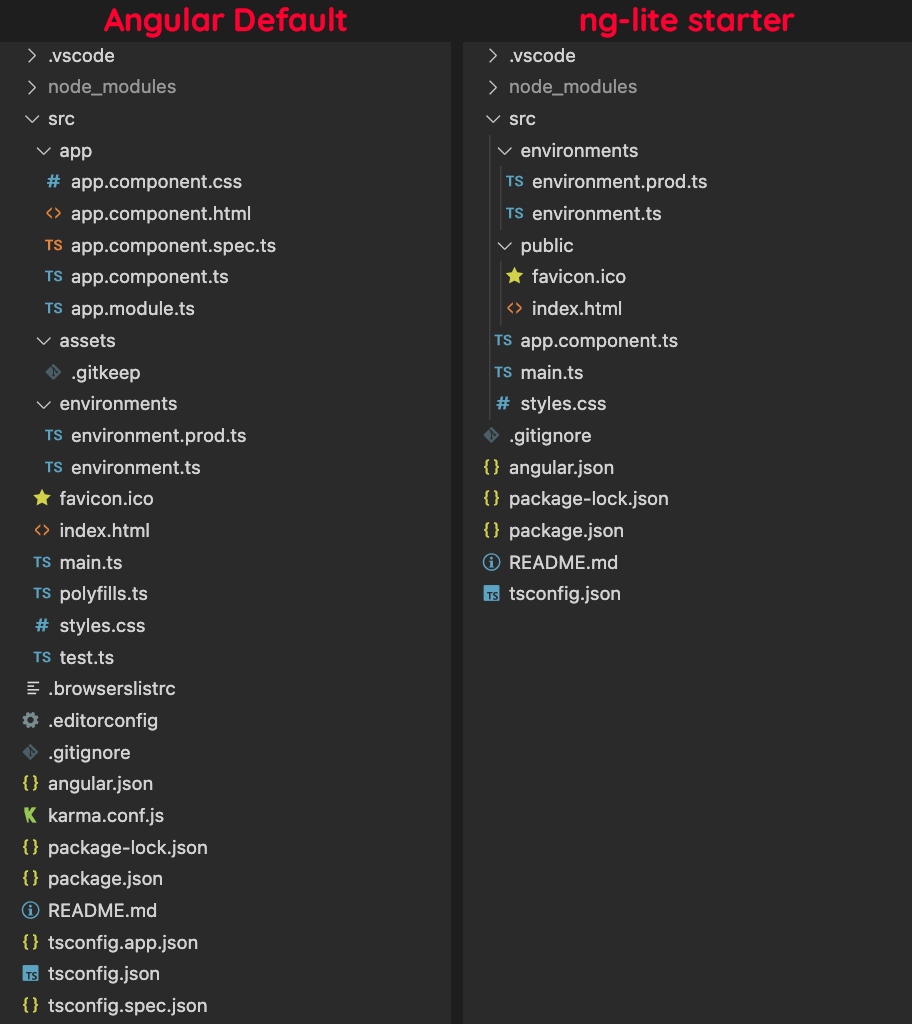
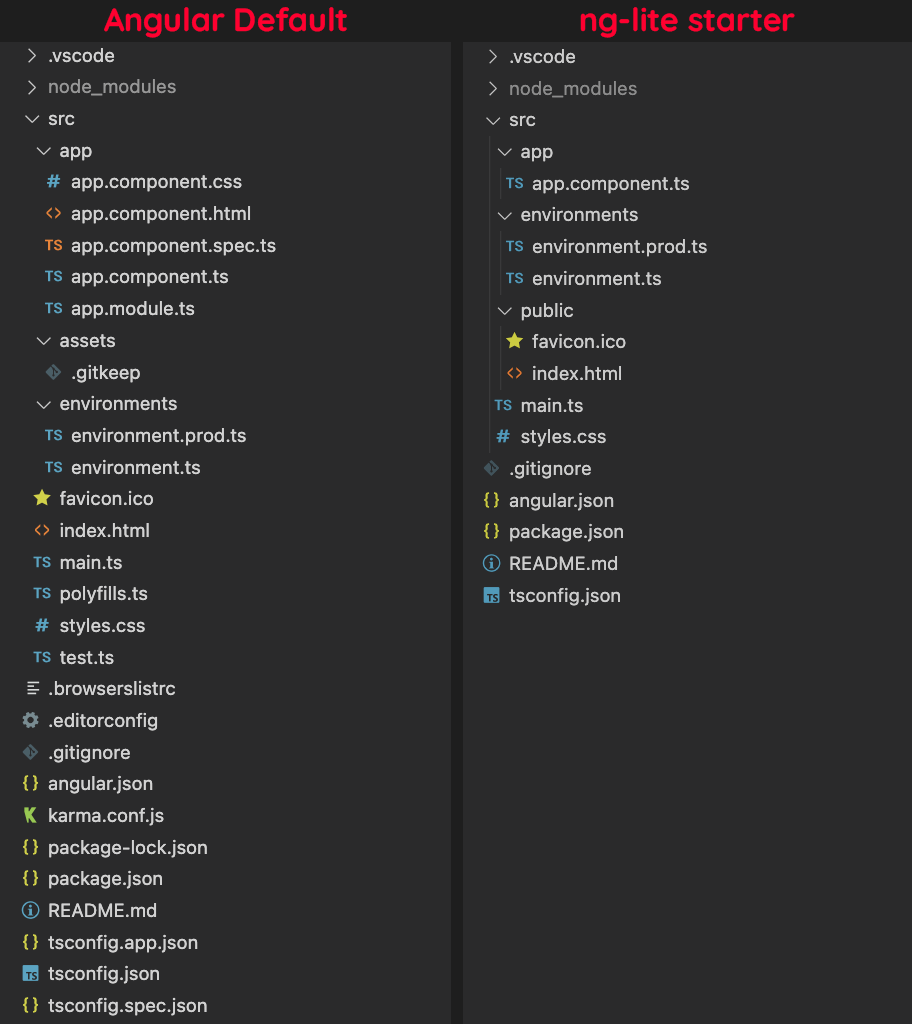
Update ng lite articles

Changed region(s): [[0.5219, 0.0312, 0.7675, 0.5938]]

diff --git a/articles/angular/ng-lite/ng-lite-2.md b/articles/angular/ng-lite/ng-lite-2.md
@@ -1,18 +1,20 @@
 ---
-title: A smaller and simpler Angular starter with ng-lite
+title: The missing (simpler) introduction to Angular
 published: false
 description: ''
 tags: 'webdev, beginners, javascript, angular'
 cover_image: ./assets/.jpg
 ---
 
-A lot of complaints I heard when starting with Angular are about the sheer amount of files you get even on simple apps. When looking at the default starter template you get from Angular CLI's `ng new` command, it's true that it can be a bit overwhelming if you're not used to it.
+Being a rather complete framework, Angular is often said to be complex and difficult to learn. And seeing a lot of articles telling that you need to learn RxJS and observables before even starting to dig in Angular isn't really helping with that idea.
 
-But it doesn't have to *always* be that way. In this article, we'll explore how we can a smaller and simpler template that's also easier to grasp for beginners, following the [YAGNI principle](https://en.wikipedia.org/wiki/You_aren%27t_gonna_need_it).
+Sure, there's a lot of Angular built-in features and tools that you can use to make your life easier when dealing with complex applications, but you don't have to learn all of them to get started. In fact, you can build perfectly fine apps using mostly HTML/CSS and Angular components, without using any other features.
+
+Let's try building the infamous todo list app while learning the basics of Angular and keeping the project as simple as it can be, following the [YAGNI principle](https://en.wikipedia.org/wiki/You_aren%27t_gonna_need_it).
 
 ## Getting prepared
 
-Make sure you have a recent [Node.js](https://nodejs.org) runtime installed (at least v14), and let's start by installing the [Angular CLI](https://cli.angular.io).
+Make sure you have a recent [Node.js](https://nodejs.org) runtime installed, and let start by installing the [Angular CLI](https://cli.angular.io).
 
 ```bash
 npm install -g @angular/cli
@@ -20,31 +22,35 @@ npm install -g @angular/cli
 
 This command-line tool is used to initialize, develop, build and even update Angular projects. This is basically your best friend when working with Angular.
 
-After installing the CLI, you usually use it to create a new Angular project with the `ng new` command, but hold off a bit. If you're old enough, maybe you remember using [nLite](https://en.wikipedia.org/wiki/Software_remastering#nLite) to slim down your Windows install back in the days? We'll take a similar approach here with the Angular starter to create an "ng-lite" template, making sure to keep the amount of files to a minimum..
+## Bootstrapping the app
 
-> **Note:** In the following sections, we'll take some time to understand the base application template and how it can be slimmed down for simpler projects. If you want to skip directly to the end result, you can use the command `npx degit sinedied/ng-lite-starter my-app` that will use this pre-made [github template](https://github.com/sinedied/ng-lite-starter), but you'll miss all the fun 😉.
+After installing the CLI, you use it to create a new Angular project with the `ng new` command, but hold off a bit. A lot of complaints I heard when starting with Angular are about the sheer amount of files you get even on simple apps, so we'll make sure to keep that amount to a minimum.
 
-## Slimming down the starter template
+If you're old enough, maybe you remember using [nLite](https://en.wikipedia.org/wiki/Software_remastering#nLite) to slim down your Windows install back in the days? We'll take a similar approach here with the Angular starter to create an "ng-lite" template.
+
+> **Note:** In the following section, we'll take some time to understand the base application template and how it can be slimmed down for simpler projects. If you're not interested in that part, you can instead use the command `npx degit sinedied/ng-lite-starter ng-lite-todo` that will use this pre-made [github template](https://github.com/sinedied/ng-lite-starter) and jump to the [next section](#building-the-todo-list).
+
+### Slimming down the starter template
 
 Let's create our app with this (long) command:
 
 ```bash
-ng new ng-lite --minimal --inline-template --inline-style --routing=false --style=css
+ng new ng-lite-todo --minimal --inline-template --inline-style --routing=false --style=css
 ```
 
 Let's explain the options we used here:
 - `--minimal`: creates a project without any test tools. When we'll get there, we'll probably want to use a better test framework than the default one anyways.
-- `--inline-template` and `--inline-style`: enables single file components (SFC), including the HTML template and CSS styling directly into your TypeScript components. Instead of 3 files per component, you'll get only one.
-- `--routing=false`: disables the default routing system. We can always add it back later if needed.
-- `--style=css`: use standard CSS styling for our components. If you prefer other flavours like SCSS, you can adapt this option to suit your needs.
+- `--inline-template` and `--inline-style`: enables single file components (SFC), including the HTML template and CSS styling directly into your TypeScript components. Instead of 3 files (4 with tests) per component, you'll get only one.
+- `--routing=false`: disables the default routing system. We'll use our own router later on.
+- `--style=css`: use standard CSS styling for our components.
 
-After the files are generated and the dependencies installed, let's hop into the `ng-lite` folder and start with some cleaning, removing dependencies we don't need.
+After the files are generated and the dependencies installed, let's hop into the `ng-lite-todo` folder and start with some cleaning, removing dependencies we don't need.
 
 ```bash
-cd ng-lite
+cd ng-lite-todo
 
 # Remove the dependencies we don't need
-# It's not because it's part of the framework that we have to use it :)
+# It's not because it's part of the framework that we have to use it!
 npm rm @angular/animations @angular/forms @angular/router @angular/platform-browser-dynamic
 ```
 
@@ -118,7 +124,7 @@ Then you can remove the `.browserslistrc` file.
 rm .browserslistrc
 ```
 
-### Reworking the `src/` folder
+#### Reworking the `src/` folder
 
 In the `src/` folder, you'll find a file named `polyfills.ts` that may contains polyfills, small pieces of code used to provide a compatibility layer for newer features. If you're targetting recent browsers, you can get rid of this file and just add the `zone.js` import at the top of `main.ts`:
 
@@ -146,9 +152,9 @@ mv src/index.html src/favicon.ico src/public
 
 This doesn't change much, but it's more in-line with what you can find in almost all other web frameworks (React, Vue, Svelte...) and it means that you can easily add any new files to be placed at the root of the `dist/` folder without having to edit `angular.json` every time, something we'll have to do once a bit later.
 
-The next change we'll do here is get rid of `src/app/app.module.ts`. Starting with Angular 14, we can create apps using [only components](https://angular.io/guide/standalone-components) and that's perfect as it's all we need to get started.
+The next change we'll do here is get rid of `src/app/app.module.ts`. Starting with Angular 14, we can create apps using [only components](https://angular.io/guide/standalone-components) and that's perfect as it's all we need.
 
-> Keep in mind that Angular Standalone components are still in preview, so the API may still change in the future.
+> Keep in mind that Angular Standalone components are still in preview, so its API may still change in the future.
 
 ```bash
 # Removes app.module.ts file
@@ -186,7 +192,7 @@ We'll keep the rest of the files as-is as they will be useful for our app:
 - `src/styles.css` is the global stylesheet for the app. You can use it to import any CSS lib you want to use, and put your global styling here.
 - `src/environments/environment*.ts` these files contains the environment configuration for the app. `environment.ts` will be used during development, and `environment.prod.ts` will replace it during production builds so it's an easy way to define any environment-specific settings, like your API URL.
 
-### Editing `angular.json`
+#### Editing `angular.json`
 
 The `angular.json` file is the (rather verbose) configuration file that tells the Angular CLI how to run your project's tasks, such as building your app. Since we changed a few things from the default app structure, our final step it to update this file to reflect our changes.
 
@@ -225,87 +231,96 @@ Wheew! That's a lot of changes, but we managed to simplify our starter template 
 
 Also, a nice side effect of this work is the reduction of the initial bunldle size, from a 150.74 kB total (46.16 kB gzipped) with the default `ng new` template to a 115.52 kB total (13.5 kB gzipped) with our starter.
 
-Of course, that's a bit tedious and not something you want to do everytime you start a new project! You can use this [github template](https://github.com/sinedied/ng-lite-starter) if you'd like to use this starter again in the future, or make your own.
+Of course, that's a bit tedious and not something you want to do everytime you start a new project! You can use this [github template](https://github.com/sinedied/ng-lite-starter) if you'd like to use this starter again in the future.
 
-## What about testing?
+## Building the todo list
 
-You may have noticed that this template doesn't include any testing tools. That may be fine for personal projects, but it's not a good idea for a production app to skip on unit testing.
+Let's focus now on building our todo list app. The feature set we'll implement is rather classic, but will allow us to have a look at all the learning fundamentals: 
 
-While the default Angular starter includes unit tests, it makes use of the older and clunky [Karma](https://karma-runner.github.io)/[Jasmine](https://jasmine.github.io) combo for unit tests.
+- Creating container and presentational components
+- Passing data between components
+- Showing/hiding content dynamically
+- Creating forms and handling form data
+- Displaying a keyed list
+- Handling app routing
+- Calling an API
 
-When you need units testing for your project, you can use the much better and faster testing framework [Jest](https://jestjs.io) with our `ng-lite` template in a few extra steps:
+Time to get started!
 
-1. Run the command `npm install --save-dev jest @angular-builders/jest @types/jest` to install the dependencies.
+### Creating the task list component
 
-2. Add a `jest.config.js` file to your project root with the following content:
-  ```js
-  module.exports = {
-    clearMocks: true,
-    collectCoverage: true,
-    coverageDirectory: "coverage",
-  };
-  ```
+We'll start by creating a component that will display the list of tasks. Run the command:
 
-3. Add a `tsconfig.spec.json` file to your project root with the following content:
-  ```json
-  {
-    "extends": "./tsconfig.json",
-    "compilerOptions": {
-      "outDir": "./out-tsc/spec",
-      "types": ["jest"],
-      "esModuleInterop": true
-    },
-    "include": [
-      "src/**/*.spec.ts",
-      "src/**/*.d.ts"
-    ]
+```bash
+ng g component task-list --flat
+```
+
+This will create the new file `src/app/task-list.component.ts`. The `--flat` option indicates that we don't need an extra folder for the component.
+
+You'll notice an error on your newly created component, what?!
+![Screenshort showing TaskListComponent class error](./assets/component-error.png)
+
+Don't mind it, this is a good reminder that currently this component isn't used anywhere, so we need to fix that.
+
+In the file `src/app/app.component.ts`, import our new component at the top:
+
+```typescript
+import { TaskListComponent } from './task-list.component';
+```
+
+And add this line to the `@Component` properties:
+
+```typescript
+@Component({
+  imports: [TaskListComponent],
+  // ...
+})
+```
+
+Because we're using Angular [standalone components](https://angular.io/guide/standalone-components) in this project, we need to explicitely imports the components and Angular features we want to use in every component of our app.
+
+#### What
+
+Now let's move back to `src/app/task-list.component.ts` and take a moment to look at how a component is defined with Angular:
+
+```typescript
+@Component({
+  selector: 'app-task-list',
+  standalone: true,
+  imports: [CommonModule],
+  template: `
+    <p>
+      task-list works!
+    </p>
+  `,
+  styles: [
+  ]
+})
+export class TaskListComponent implements OnInit {
+
+  constructor() { }
+
+  ngOnInit(): void {
   }
-  ```
 
-4. In your `angular.json` file, add this after your `serve` configuration (under the `architect` key):
-  ```json
-  "test": {
-    "builder": "@angular-builders/jest:run",
-    "options": {
-      "tsConfig": "tsconfig.spec.json"
-    }
-  },
-  ```
-  If you want to have tests generated by default when using the `ng generate` command, you can also remove all the `"skipTests": true` occurences in this file.
+}
+```
 
-5. Create your first test in `src/app/app.component.spec.ts`:
-  ```typescript
-  import { ComponentFixture, TestBed } from '@angular/core/testing';
-  import { AppComponent } from './app.component';
 
-  describe('AppComponent', () => {
-    let component: AppComponent;
-    let fixture: ComponentFixture<AppComponent>;
+- all / active / completed route filter
+- todoItem
+- todoService
 
-    beforeEach(async () => {
-      await TestBed.configureTestingModule({
-        imports: [AppComponent],
-      }).compileComponents();
 
-      fixture = TestBed.createComponent(AppComponent);
-      component = fixture.componentInstance;
-      fixture.detectChanges();
-    });
 
-    it('should create the component', () => {
-      expect(component).toBeTruthy();
-    });
-  });
-  ```
+### Your next learning steps
 
-You can now run your tests with `ng test` or `ng test --watch`.
-
-## What's next?
-
-If you followed closely, you've seen that we didn't even include some Angular's core libraries like `@angular/forms` or `@angular/router`. Well, that's not because you're writing an Angular app that you have to use **ALL** of the provided libraries! For sure they're convenient, and you can always add them back later if you need it, but you can also build your entire app without them.
-
-That's what we'll explore in a further article, now that we have a simpler starter template, why not trying to build a complete app, keeping things lean?
-
----
-
-Follow me on [Twitter](http://twitter.com/sinedied), I would be happy to discuss and take your suggestions!
+- Angular router
+- Angular forms
+- Angular services and dependency injection
+- Angular HTTP service
+- Reactives forms and observables
+- Angular animations
+- Angular modules
+- Angular service worker
+- ...
